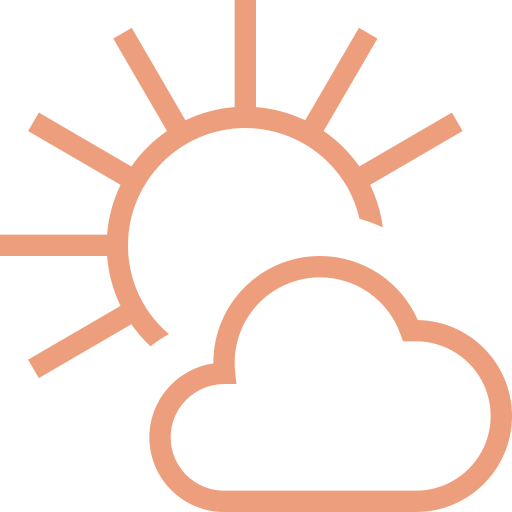
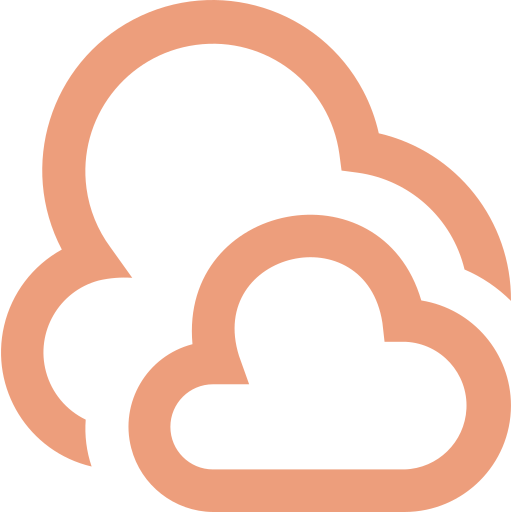
Arreglos a css, incorporacion del card

diff --git a/js/script.js b/js/script.js
@@ -13,6 +13,34 @@ let senTemp = [];
 let maxTemp = [];
 let minTemp = [];
 
+//Variables card
+let index = 31;
+let temp = [];
+let name = [];
+let hum = [];
+let est = [];
+let icon = [];
+
+async function cardData() {
+    const clima = await fetchApi("https://api.gael.cloud/general/public/clima");
+
+    //Pasar datos a los arrays de las cards
+    temp = clima.map(clima => clima.Temp);
+    name = clima.map(clima => clima.Estacion);
+    hum = clima.map(clima => clima.Humedad);
+    est = clima.map(clima => clima.Estado);
+    icon = clima.map(clima => clima.Icono);
+    console.log(temp);
+
+    //Escribir datos en el card
+    document.getElementById('cardTitle').innerHTML = name[index];
+    document.getElementById('cardTemp').innerHTML = `${temp[index]} °C`;
+    document.getElementById('cardHum').innerHTML = `<i class="fa-solid fa-droplet"></i> ${hum[index]}%`;
+    document.getElementById('cardEst').innerHTML =  est[index];
+    document.getElementById('cardIcon').src = `./assets/img/weather-icons/${icon[index]}`;
+}
+cardData();
+
 async function showData() {
     //Fecha actual
     const currentDate = new Date();
@@ -37,7 +65,6 @@ async function showData() {
     let formattedEnd = endDate.toISOString().split('T')[0];
     
     //Llama al fetch para recoger datos
-    // const clima = await fetchApi("https://api.gael.cloud/general/public/clima");
     const climaGrafico = await fetchApi(`https://archive-api.open-meteo.com/v1/archive?latitude=-33.4569&longitude=-70.6483&start_date=${formattedStart}&end_date=${formattedEnd}&daily=temperature_2m_max,temperature_2m_min,temperature_2m_mean,apparent_temperature_mean&timezone=auto`);
 
     //Pasar datos a los arrays del grafico
@@ -136,5 +163,14 @@ window.addEventListener("load", () => {
     const generateButton = document.getElementById("btn-datePicker");
     generateButton.addEventListener("click", showData);
 });
+
+let elem = document.getElementById('changePlace');
+elem.addEventListener("change", () => {
+    let valor = elem.value;
+    index = valor;
+    const showButton = document.getElementById("btn-Select");
+    showButton.addEventListener("click", cardData);
+    console.log(index);
+})
 
 showData();

diff --git a/index.html b/index.html
@@ -38,7 +38,7 @@
         </header>
         <section class="main">
             <div class="container">
-                <h2>Dashboard de Temperatura</h2>
+                <h2>Dashboard del Clima</h2>
                 <p>En esta página podrás encontrar el clima de hoy en diferentes ciudades de Chile, además de poder revisar el clima de hasta hace 3 meses en Santiago.</p>
                 <div class="row">
                     <div class="col-3">
@@ -85,7 +85,7 @@
                             <option value="36">Viña del Mar/Valparaíso</option>
                         </select>
                         <button type="button" class="btn btn-primary" id="btn-Select">Ver</button>
-                        <div class="card text-center" style="width: 18rem;">
+                        <div class="card text-center shadow">
                             <div class="card-body">
                                 <h5 class="card-title" id="cardTitle"></h5>
                                 <div class="img-container">
@@ -98,7 +98,7 @@
                           </div>
                     </div>
                     <div class="col-9">
-                        <h3>Temperatura histórica</h3>
+                        <h3>Temperatura histórica en Santiago</h3>
                         <p>Escoge hasta que fecha deseas ver los datos y presiona el botón para generar el gráfico.</p>
                         <input type="date" id="dateStart" name="start" readonly>
                         <input type="date" id="dateEnd" name="end">

diff --git a/styles.css b/styles.css
@@ -42,9 +42,19 @@ a {
 }
 .col-3 select {
     height: 34px;
+    padding-left: 5px;
 }
 .card {
     margin-top: 40px;
+}
+.card .card-img {
+    width: 220px;
+    margin: 8px;
+}
+#cardTemp {
+    margin-top: 8px;
+    font-size: 32px;
+    font-weight: bold;
 }
 .col-9 {
     padding-left: 40px;
@@ -52,6 +62,7 @@ a {
 }
 .col-9 input {
     height: 36px;
+    padding-left: 5px;
 }
 footer {
     background-color: #ACB9C3;
